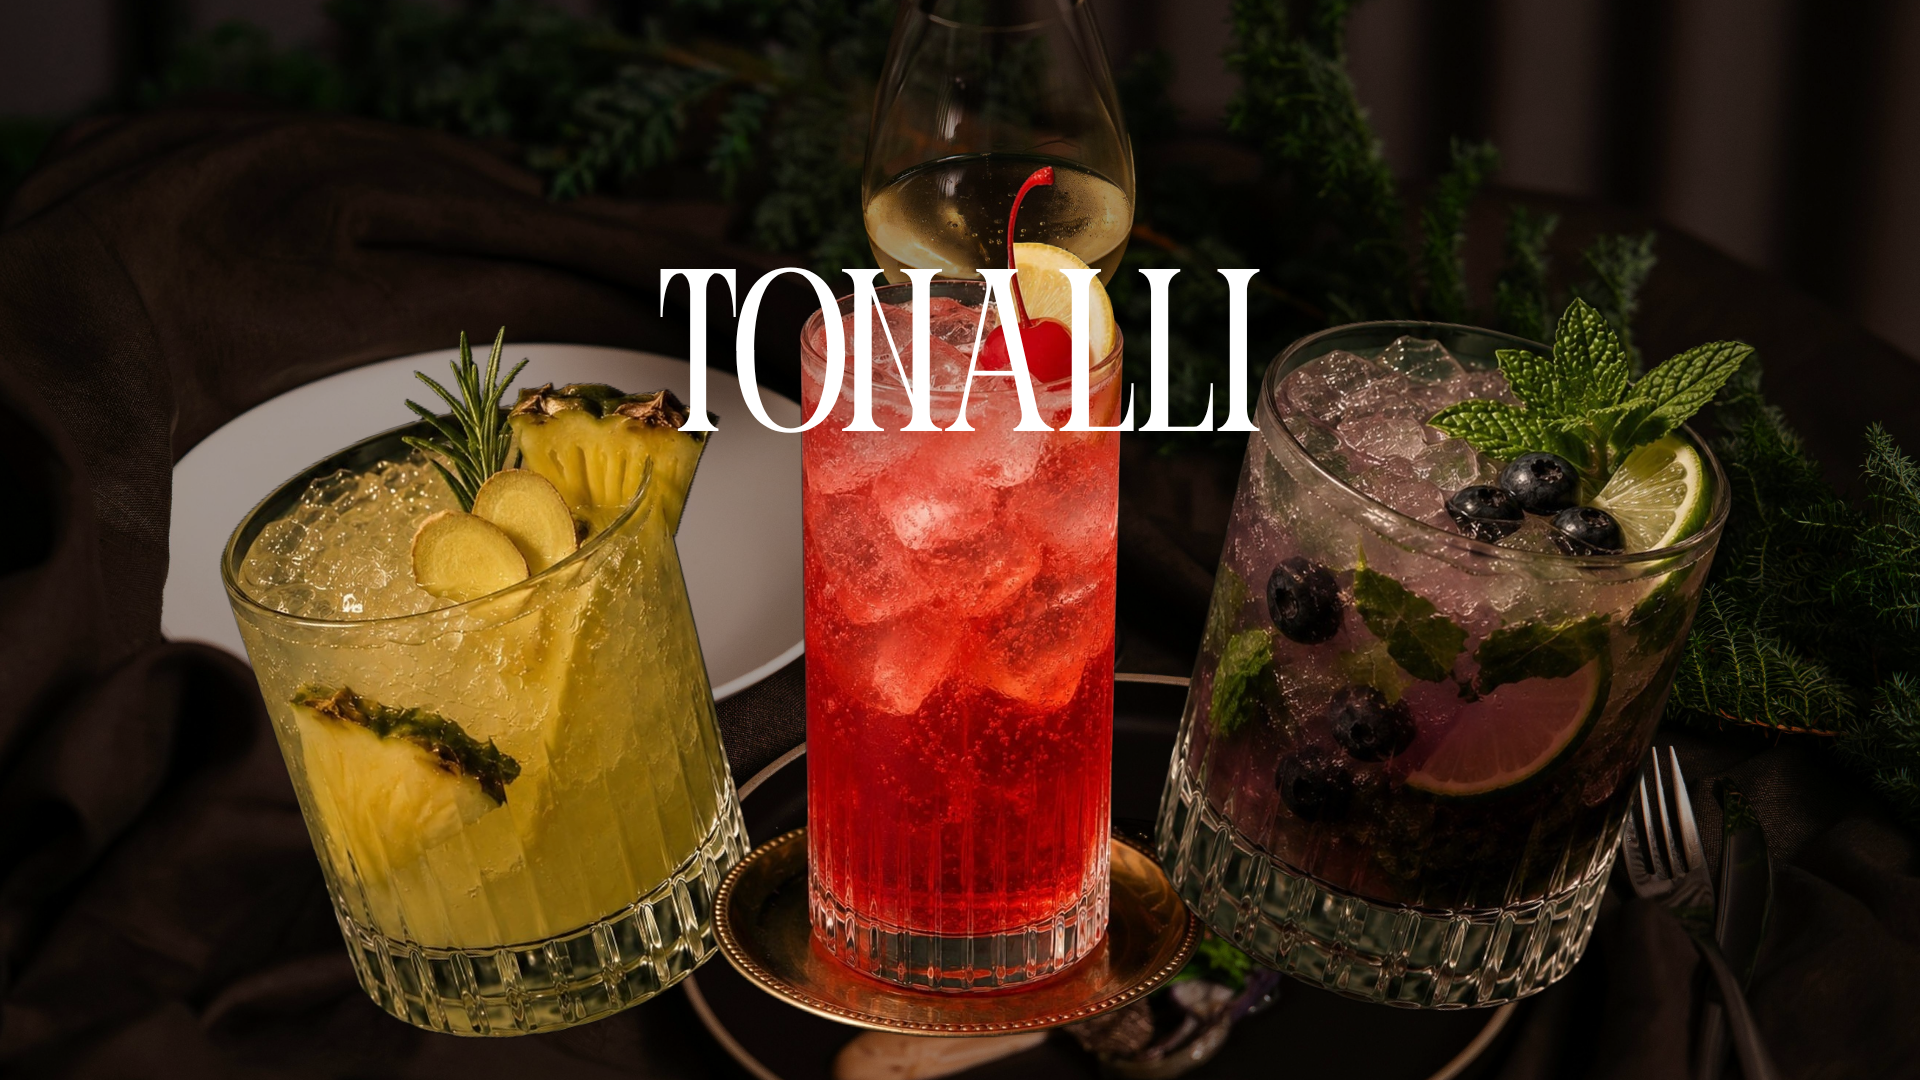
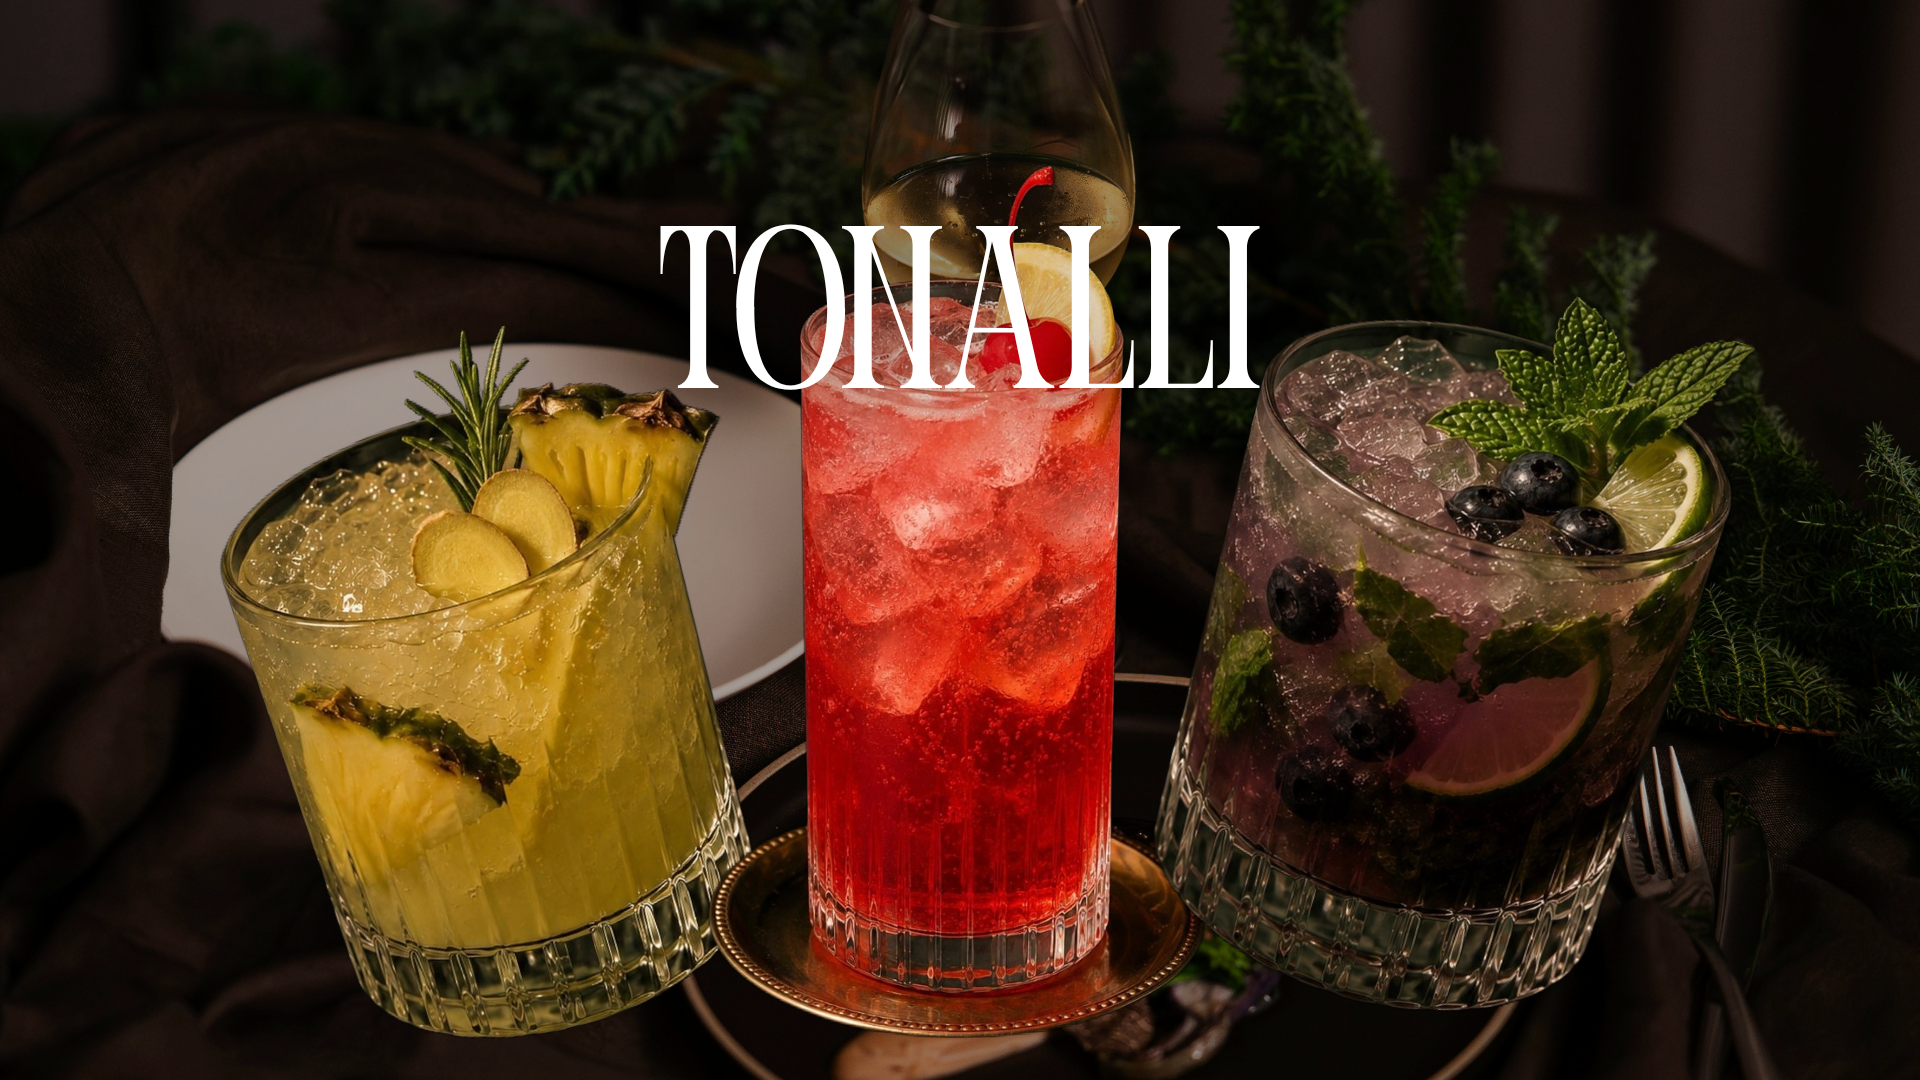
asd

Changed region(s): [[0.3438, 0.1833, 0.6562, 0.3972]]

diff --git a/estilos.css b/estilos.css
@@ -523,7 +523,7 @@ nav a:focus {
     justify-content: center;
     position: relative;
     overflow: hidden;
-    background: url('imagenes/Inicio.png') top center / cover no-repeat;
+    background: url('imagenes/Inicio2.png') top center / cover no-repeat;
     background-color: #0b1119;
     background-blend-mode: normal;
 }
